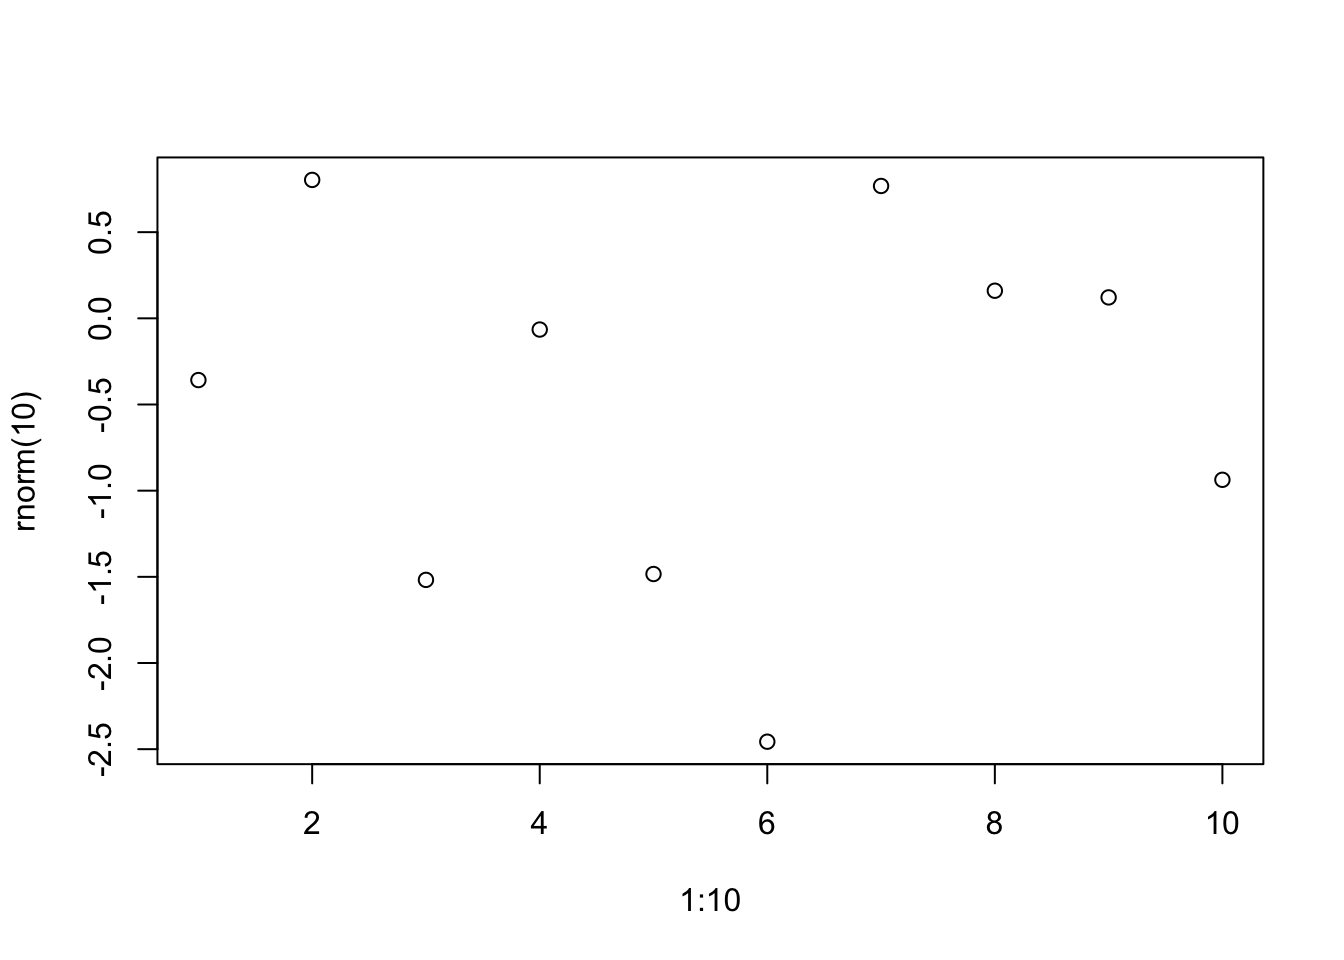
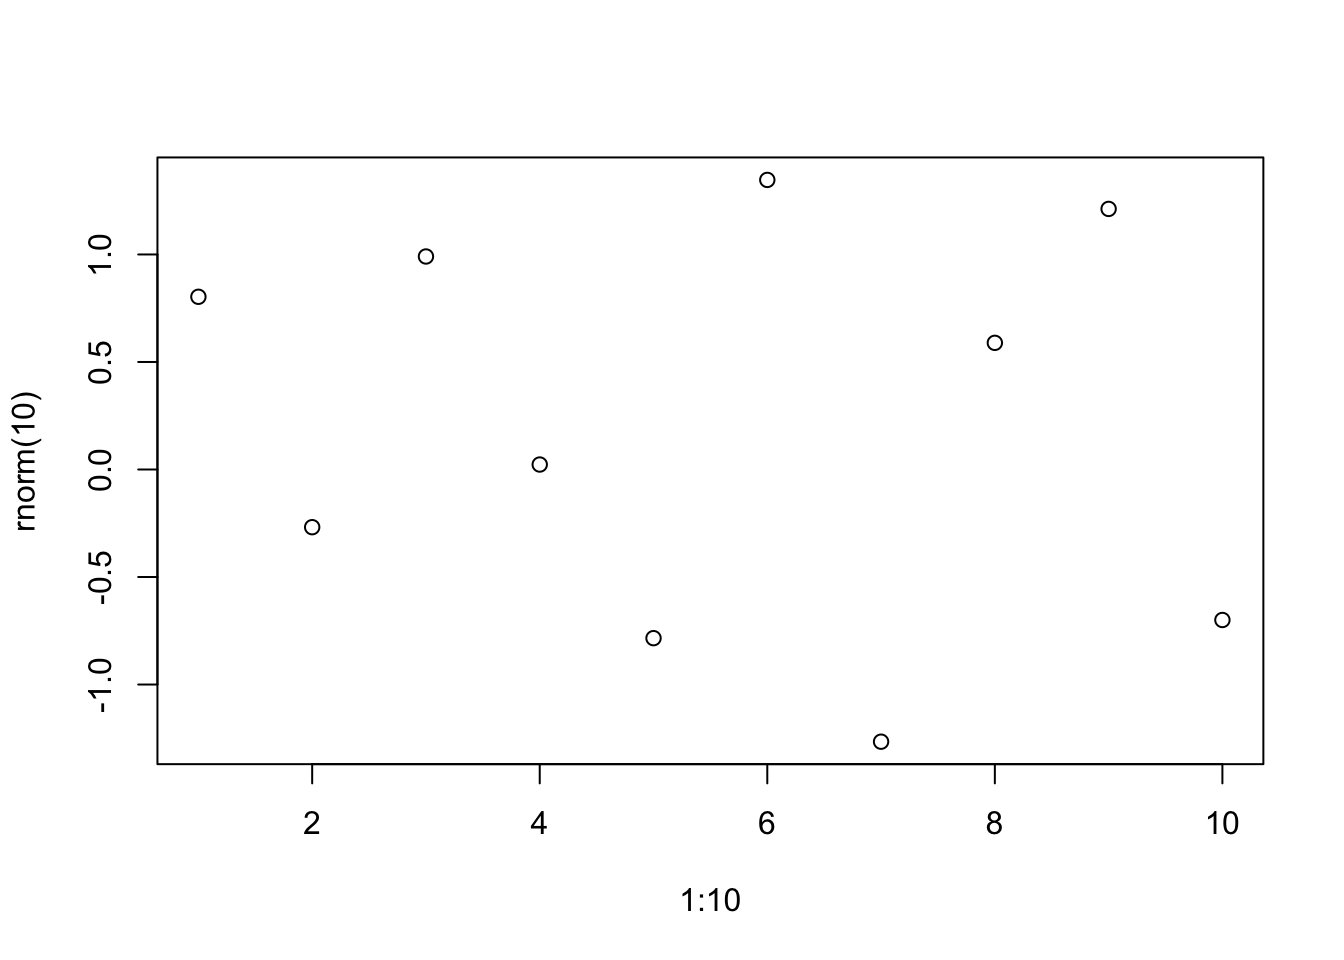
quarto_extensions post updated again v2.7, trying to make python code work in quarto

diff --git a/docs/index.html b/docs/index.html
@@ -239,7 +239,7 @@ window.Quarto = {
     </div>
 </div>
 <div class="list quarto-listing-default">
-<div class="quarto-post image-right" data-index="0" data-categories="UXVhcnRvJTJDRXh0ZW5zaW9ucw==" data-listing-date-sort="1761858000000" data-listing-file-modified-sort="1767299424642" data-listing-date-modified-sort="1767214800000" data-listing-reading-time-sort="4" data-listing-word-count-sort="609">
+<div class="quarto-post image-right" data-index="0" data-categories="UXVhcnRvJTJDRXh0ZW5zaW9ucw==" data-listing-date-sort="1761858000000" data-listing-file-modified-sort="1767299746004" data-listing-date-modified-sort="1767214800000" data-listing-reading-time-sort="4" data-listing-word-count-sort="609">
 <div class="thumbnail"><a href="./posts/quarto_extensions/index.html" class="no-external">
 
 <img loading="lazy" src="./posts/quarto_extensions/quarto_extension1.png" class="thumbnail-image">

diff --git a/docs/posts/quarto_extensions/index.html b/docs/posts/quarto_extensions/index.html
@@ -285,7 +285,7 @@ plot(1:10, rnorm(10))</code></pre>
 <div class="cell-output-display">
 <div class="quarto-figure quarto-figure-center">
 <figure class="figure">
-<p><a href="index_files/figure-html/unnamed-chunk-1-1.png" class="lightbox" data-glightbox="description: .lightbox-desc-2;title:Simple demo R plot;" data-gallery="r-graph" title="Simple demo R plot"><img src="index_files/figure-html/unnamed-chunk-1-1.png" class="img-fluid figure-img" width="672" alt="Simple demo R plot"></a></p>
+<p><a href="index_files/figure-html/unnamed-chunk-1-1.png" class="lightbox" data-gallery="r-graph" data-glightbox="description: .lightbox-desc-2;title:Simple demo R plot;" title="Simple demo R plot"><img src="index_files/figure-html/unnamed-chunk-1-1.png" class="img-fluid figure-img" width="672" alt="Simple demo R plot"></a></p>
 <figcaption>Simple demo R plot</figcaption>
 </figure>
 </div>
